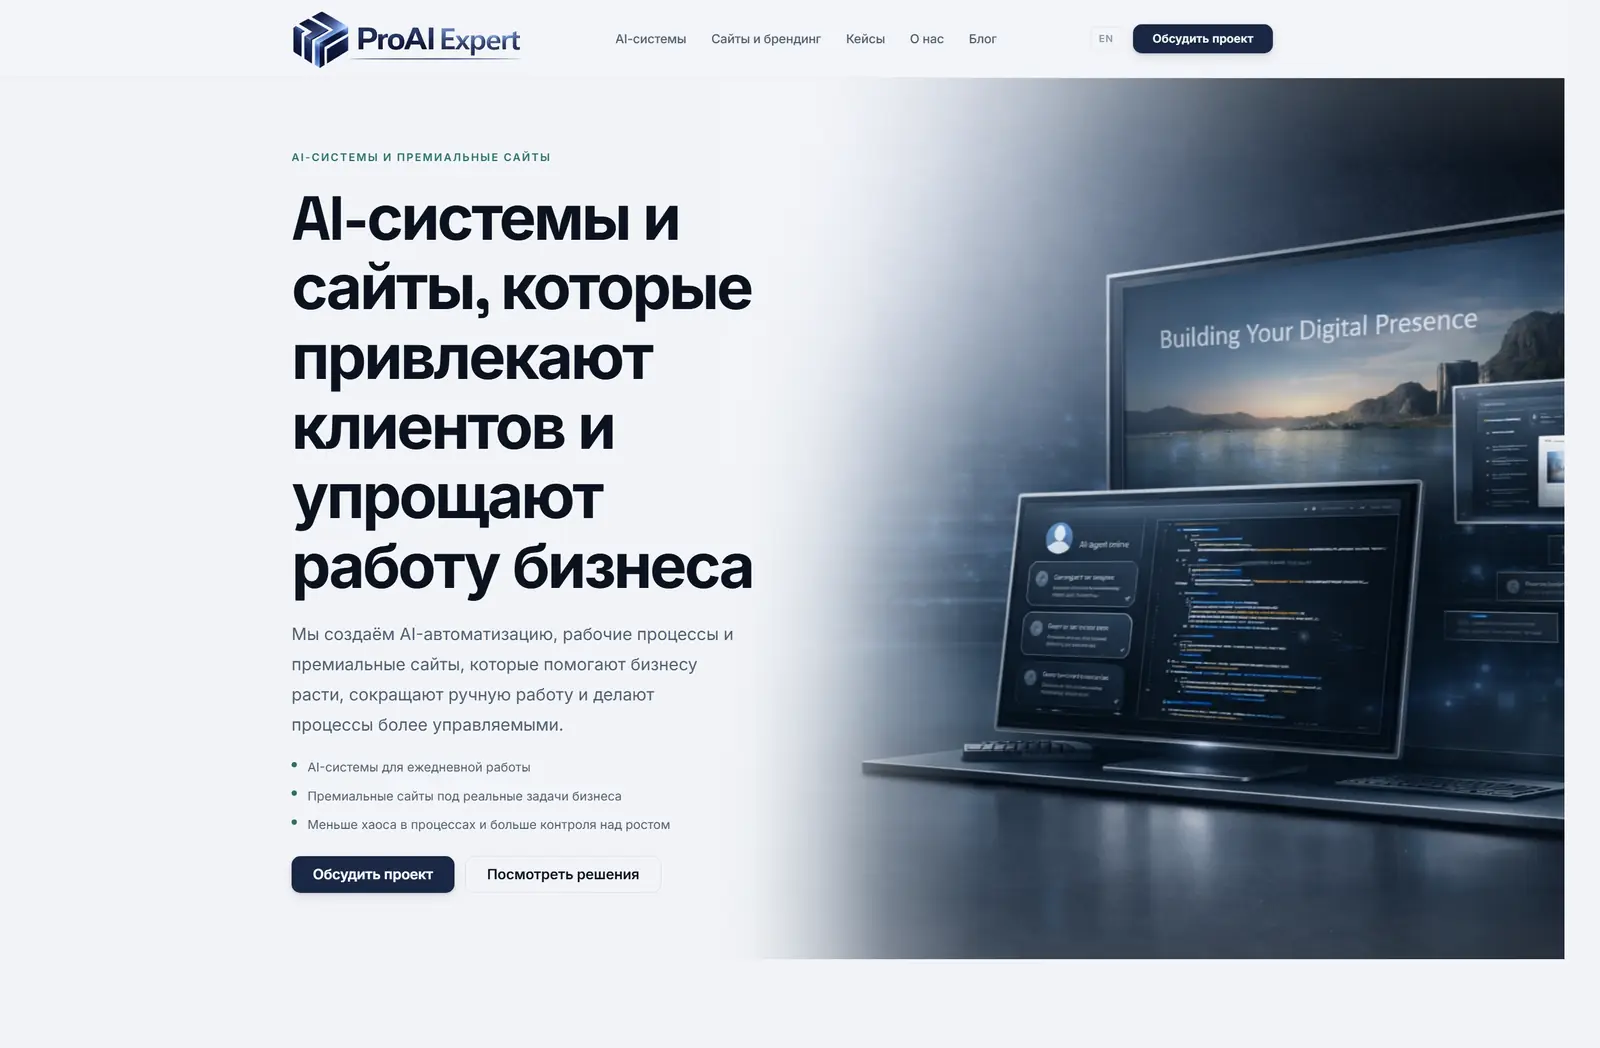
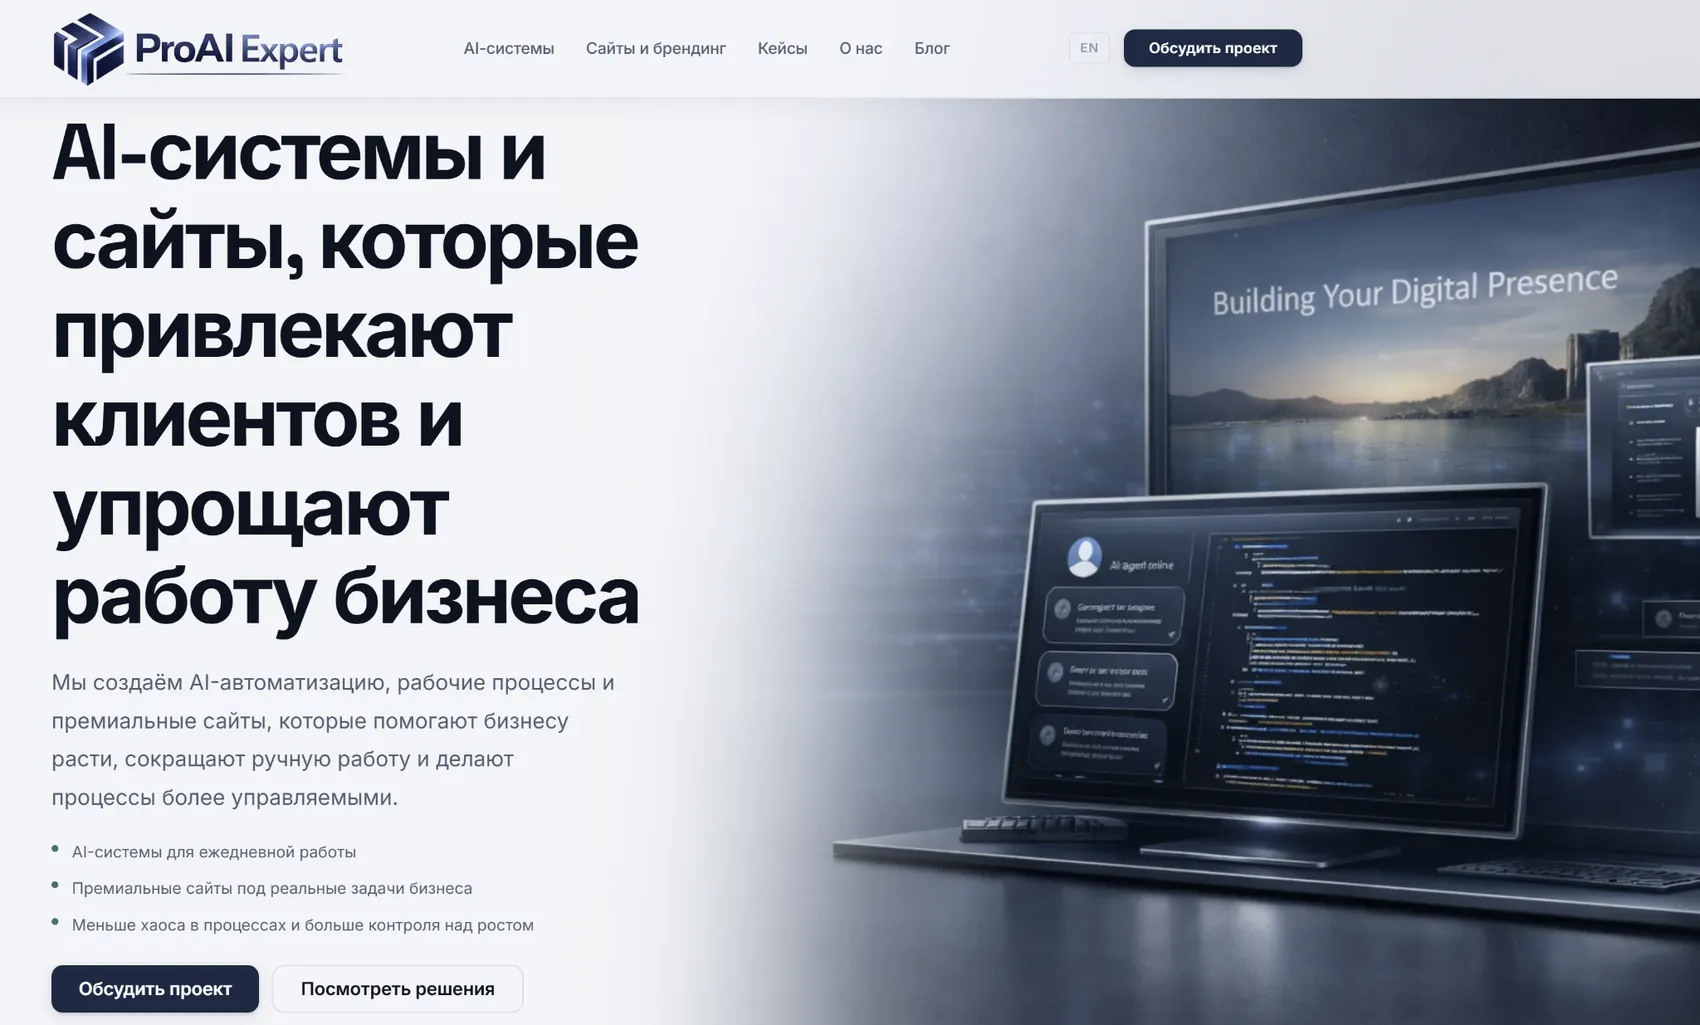
ProAI Expert case-study refined with new horizontal EN/RU homepage screenshots, updated directions/case-study visuals, cleaner gallery narrative, and reduced image cropping.
Premium bilingual studio website focused on AI systems, automation, websites, and digital structure for growing businesses.

diff --git a/ru/case-studies/proai-expert/index.html b/ru/case-studies/proai-expert/index.html
@@ -68,7 +68,7 @@
             </div>
             <div class="case-meta-item">
               <span class="case-meta-label">Структура</span>
-              <span class="case-meta-value">Отдельные EN + RU версии</span>
+              <span class="case-meta-value">Масштабируемая EN + RU структура</span>
             </div>
           </div>
         </div>
@@ -130,7 +130,7 @@
         <div class="gallery-grid">
           <div class="gallery-item gallery-item--wide">
             <article class="gallery-panel">
-              <img class="gallery-shot" src="/assets/images/case-proai/proai-home-ru.webp" alt="Главный экран сайта ProAI Expert и премиальная подача студии" loading="lazy"/>
+              <img class="gallery-shot gallery-shot--proai-wide" src="/assets/images/case-proai/proai-home-ru.webp" alt="Главный экран сайта ProAI Expert и премиальная подача студии" loading="lazy"/>
               <div class="gallery-panel-body">
                 <span class="gallery-panel-kicker">Главная страница</span>
                 <h3 class="gallery-panel-title">Премиальное первое впечатление о студии</h3>
@@ -145,7 +145,7 @@
           </div>
           <div class="gallery-item">
             <article class="gallery-panel gallery-panel--dark">
-              <img class="gallery-shot" src="/assets/images/case-proai/proai-directions-ru.webp" alt="Блок с двумя ключевыми направлениями на сайте ProAI Expert" loading="lazy"/>
+              <img class="gallery-shot gallery-shot--proai-card" src="/assets/images/case-proai/proai-directions-ru.webp" alt="Блок с двумя ключевыми направлениями на сайте ProAI Expert" loading="lazy"/>
               <div class="gallery-panel-body">
                 <span class="gallery-panel-kicker">Два ключевых направления</span>
                 <h3 class="gallery-panel-title">Понятная структура внутри одной студии</h3>
@@ -160,15 +160,15 @@
           </div>
           <div class="gallery-item">
             <article class="gallery-panel">
-              <img class="gallery-shot" src="/assets/images/case-proai/proai-process-ru.webp" alt="Блок как мы работаем на сайте ProAI Expert" loading="lazy"/>
+              <img class="gallery-shot gallery-shot--proai-card" src="/assets/images/case-proai/proai-cases-ru.webp" alt="Блок с избранными кейсами на сайте ProAI Expert" loading="lazy"/>
               <div class="gallery-panel-body">
-                <span class="gallery-panel-kicker">Как мы работаем</span>
-                <h3 class="gallery-panel-title">Простой и уверенный формат работы</h3>
-                <p class="gallery-panel-text">Блок процесса показывает, что студия не только хорошо выглядит, но и умеет понятно вести проект от задачи до запуска. Это усиливает ощущение порядка, профессионализма и уверенности в результате.</p>
+                <span class="gallery-panel-kicker">Избранные кейсы</span>
+                <h3 class="gallery-panel-title">Кейсы продолжают ту же премиальную логику</h3>
+                <p class="gallery-panel-text">Блок кейсов продолжает ту же логику, что и главная страница: спокойная, аккуратная и дорогая подача без перегруза. Он показывает реальные проекты студии так, чтобы сайт работал не только как презентация, но и как убедительное подтверждение уровня работ.</p>
                 <ul class="gallery-panel-tags">
-                  <li>Понятный процесс</li>
-                  <li>Уверенность клиента</li>
-                  <li>Порядок без перегруза</li>
+                  <li>Уровень работ</li>
+                  <li>Подтверждение опыта</li>
+                  <li>Премиальная подача</li>
                 </ul>
               </div>
             </article>

diff --git a/case-studies/proai-expert/index.html b/case-studies/proai-expert/index.html
@@ -68,7 +68,7 @@
             </div>
             <div class="case-meta-item">
               <span class="case-meta-label">Structure</span>
-              <span class="case-meta-value">Premium EN + RU presentation</span>
+              <span class="case-meta-value">Scalable EN + RU structure</span>
             </div>
           </div>
         </div>
@@ -130,7 +130,7 @@
         <div class="gallery-grid">
           <div class="gallery-item gallery-item--wide">
             <article class="gallery-panel">
-              <img class="gallery-shot" src="/assets/images/case-proai/proai-home-en.webp" alt="ProAI Expert homepage and premium studio positioning" loading="lazy"/>
+              <img class="gallery-shot gallery-shot--proai-wide" src="/assets/images/case-proai/proai-home-en.webp" alt="ProAI Expert homepage and premium studio positioning" loading="lazy"/>
               <div class="gallery-panel-body">
                 <span class="gallery-panel-kicker">Homepage</span>
                 <h3 class="gallery-panel-title">A premium first impression for the studio</h3>
@@ -145,7 +145,7 @@
           </div>
           <div class="gallery-item">
             <article class="gallery-panel gallery-panel--dark">
-              <img class="gallery-shot" src="/assets/images/case-proai/proai-directions-en.webp" alt="ProAI Expert two core directions block" loading="lazy"/>
+              <img class="gallery-shot gallery-shot--proai-card" src="/assets/images/case-proai/proai-directions-en.webp" alt="ProAI Expert two core directions block" loading="lazy"/>
               <div class="gallery-panel-body">
                 <span class="gallery-panel-kicker">Two core directions</span>
                 <h3 class="gallery-panel-title">Clear separation inside one studio system</h3>
@@ -160,15 +160,15 @@
           </div>
           <div class="gallery-item">
             <article class="gallery-panel">
-              <img class="gallery-shot" src="/assets/images/case-proai/proai-process-en.webp" alt="ProAI Expert how we work section" loading="lazy"/>
+              <img class="gallery-shot gallery-shot--proai-card" src="/assets/images/case-proai/proai-cases-en.webp" alt="ProAI Expert selected case studies section" loading="lazy"/>
               <div class="gallery-panel-body">
-                <span class="gallery-panel-kicker">Process</span>
-                <h3 class="gallery-panel-title">A simple and confident working model</h3>
-                <p class="gallery-panel-text">The process section reinforces that the studio is not just visually polished. It explains how ideas move from strategy to launch in a way that feels orderly, credible, and easy for potential clients to follow.</p>
+                <span class="gallery-panel-kicker">Selected case studies</span>
+                <h3 class="gallery-panel-title">The work is presented with the same premium discipline</h3>
+                <p class="gallery-panel-text">The case studies section extends the same premium logic beyond the homepage. It shows the studio’s work in a cleaner, more deliberate way — turning the website into both a presentation tool and a proof layer for real client work.</p>
                 <ul class="gallery-panel-tags">
-                  <li>Process clarity</li>
-                  <li>Client confidence</li>
-                  <li>Order without clutter</li>
+                  <li>Project credibility</li>
+                  <li>Proof of work</li>
+                  <li>Premium showcase</li>
                 </ul>
               </div>
             </article>

diff --git a/assets/css/sections.css b/assets/css/sections.css
@@ -1790,6 +1790,21 @@
   object-position: center top;
 }
 
+
+.gallery-shot--proai-wide {
+  aspect-ratio: 5 / 3;
+  object-fit: contain;
+  object-position: center top;
+  background: linear-gradient(180deg, #f4f7fb 0%, #edf2f8 100%);
+}
+
+.gallery-shot--proai-card {
+  aspect-ratio: 5 / 3;
+  object-fit: contain;
+  object-position: center top;
+  background: linear-gradient(180deg, #f4f7fb 0%, #edf2f8 100%);
+}
+
 .gallery-panel-body {
   display: flex;
   flex-direction: column;

diff --git a/RELEASE_NOTES_v58.md b/RELEASE_NOTES_v58.md
@@ -1,0 +1,28 @@
+# RELEASE NOTES — ProAIExpert Website v58
+
+## Scope
+Controlled pass focused only on the **ProAI Expert case-study page** in EN/RU.
+
+## Changes made
+- Replaced the **main ProAI Expert case-study hero screenshots** with new horizontal homepage captures:
+  - EN page now uses the English homepage screenshot
+  - RU page now uses the Russian homepage screenshot
+- Replaced the previous **process screenshot block** with a stronger **selected case studies** screenshot block in EN/RU.
+- Kept the **Two core directions** gallery block and updated it with the new matched EN/RU screenshots.
+- Added new image treatment classes so the screenshots display with a more appropriate **contain / top-aligned** behavior and preserve the header/logo/buttons instead of cropping them aggressively.
+- Updated the third gallery text block so it matches the new **case studies** visuals and reads as a premium proof/showcase layer.
+- Cleaned unused ProAI process screenshot files from the case-proai image folder.
+
+## Optimized image outputs
+- `proai-home-en.webp` — ~76 KB
+- `proai-home-ru.webp` — ~77 KB
+- `proai-directions-en.webp` — ~49 KB
+- `proai-directions-ru.webp` — ~47 KB
+- `proai-cases-en.webp` — ~48 KB
+- `proai-cases-ru.webp` — ~48 KB
+
+## QA notes
+- EN page points to EN screenshots only.
+- RU page points to RU screenshots only.
+- No references remain to the removed `proai-process-*` files.
+- ZIP packaged from the updated working directory.
